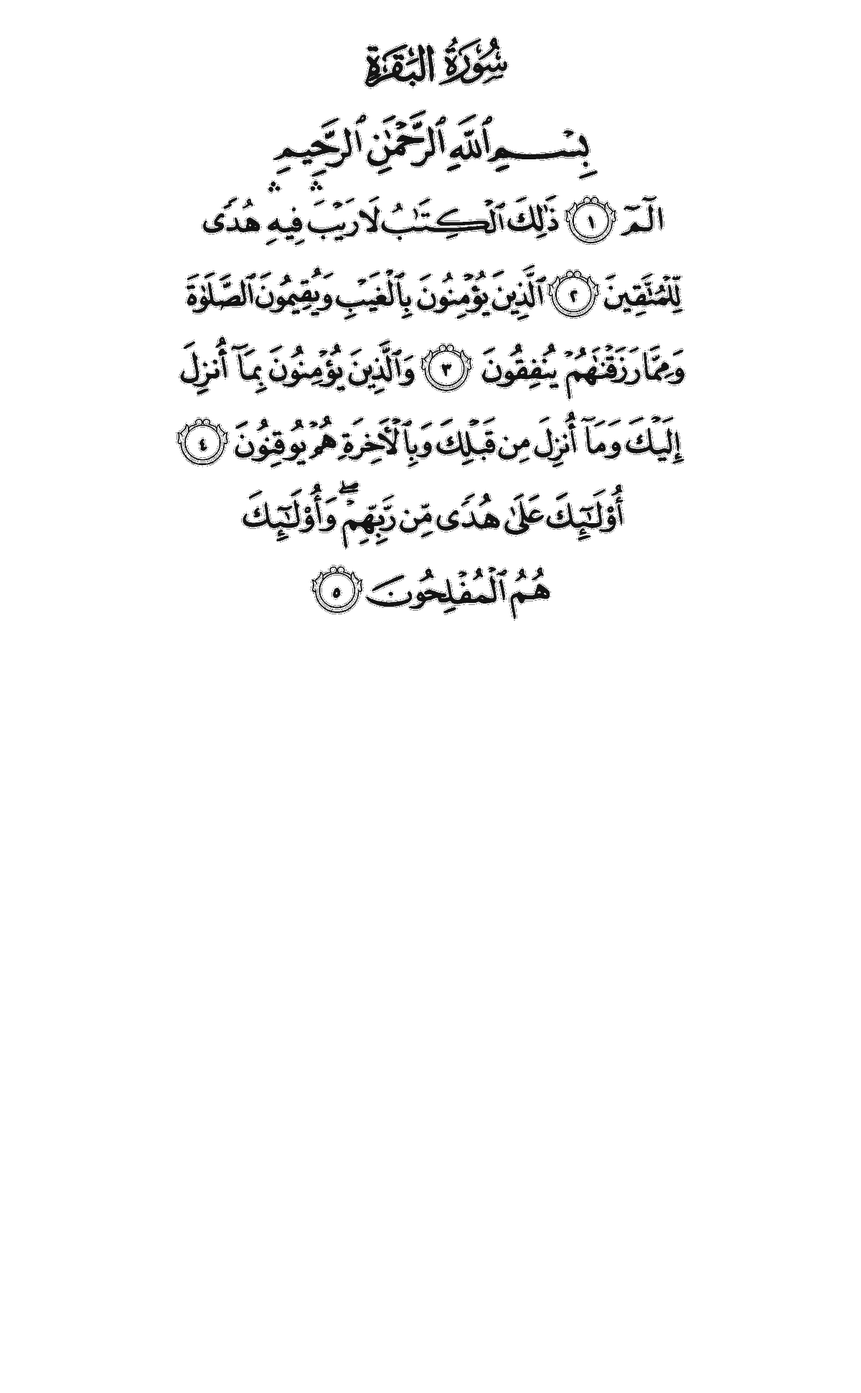
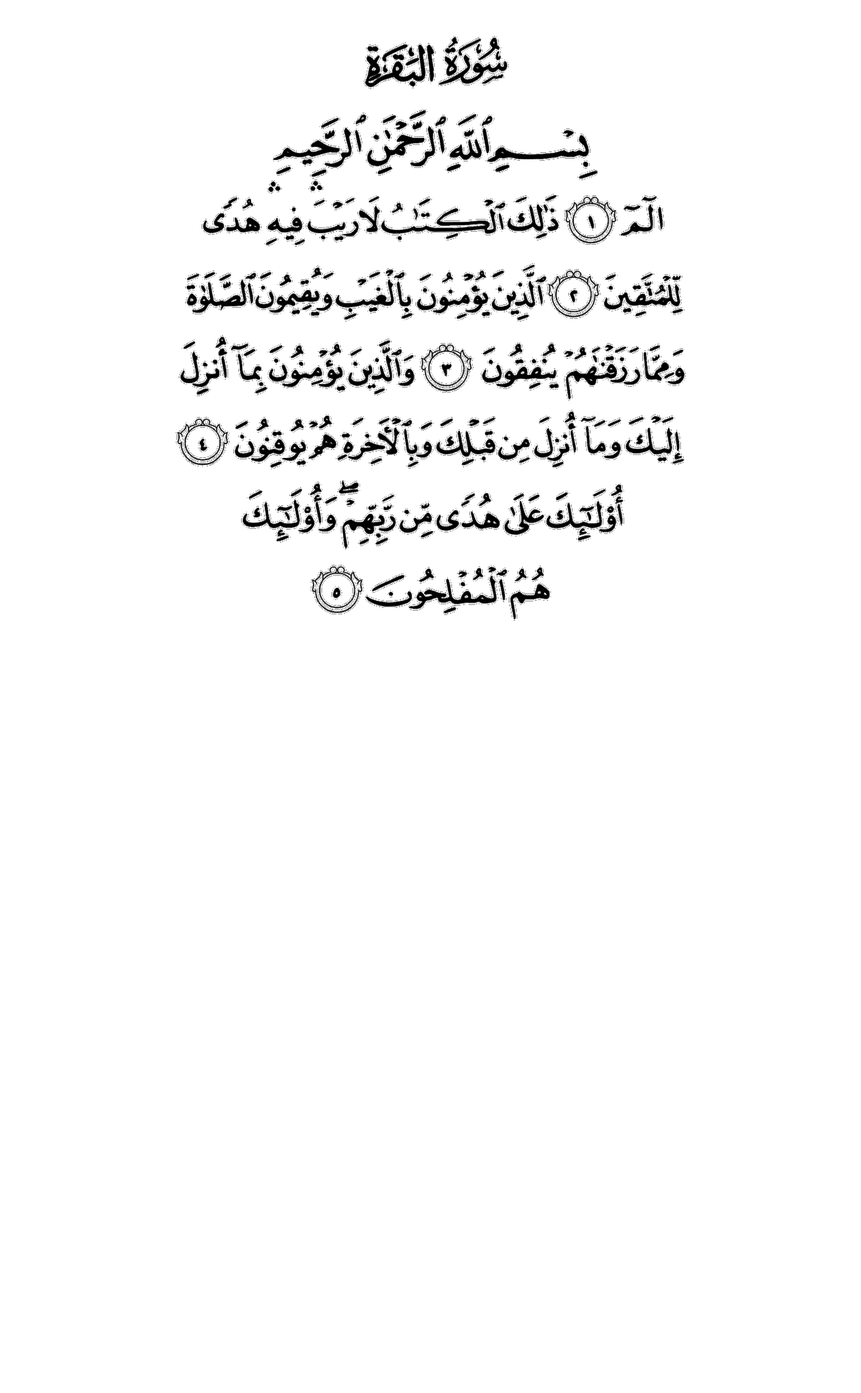
[full] V0.5.0-beta: Hybrid line architecture, Top-Third focus, and Basmalah fix

diff --git a/app/src/main/java/com/mushafqiyam/MushafPageRepository.kt b/app/src/main/java/com/mushafqiyam/MushafPageRepository.kt
@@ -47,6 +47,13 @@ object MushafPageRepository {
         val normBottom: Float
     )
 
+    data class PageLine(
+        val lineNumber: Int,
+        val normTop: Float,
+        val normBottom: Float,
+        val boxes: List<AyahBoundingBox>
+    )
+
     data class SurahInfo(
         val number: Int,
         val name: String,
@@ -60,6 +67,7 @@ object MushafPageRepository {
 
     private val pagesVerses = HashMap<Int, List<MushafVerse>>(604)
     private val pagesBoxes = HashMap<Int, List<AyahBoundingBox>>(604)
+    private val pagesLines = HashMap<Int, List<PageLine>>(604)
     private val allVersesList = ArrayList<MushafVerse>(6236)
     private val verseKeyToGlobalIndex = HashMap<Int, Int>(6236)
     private val surahInfoList = ArrayList<SurahInfo>(114)
@@ -190,9 +198,40 @@ object MushafPageRepository {
                 )
             }
             pagesBoxes[pageNum] = boxList
+
+            // Group boxes on this page into vertical line bands (standard 15 lines in Madani Mushaf)
+            val lineGroups = ArrayList<LineAccumulator>()
+            for (box in boxList) {
+                val midY = (box.normTop + box.normBottom) / 2f
+                val tolerance = 35f / REF_HEIGHT // ~0.018 in normalized coords
+                val existing = lineGroups.firstOrNull { kotlin.math.abs(it.midY - midY) < tolerance }
+                if (existing != null) {
+                    existing.boxes.add(box)
+                } else {
+                    val acc = LineAccumulator(midY)
+                    acc.boxes.add(box)
+                    lineGroups.add(acc)
+                }
+            }
+            lineGroups.sortBy { it.midY }
+            val pageLinesList = lineGroups.mapIndexed { idx, acc ->
+                val minTop = acc.boxes.minOf { it.normTop }
+                val maxBottom = acc.boxes.maxOf { it.normBottom }
+                PageLine(
+                    lineNumber = idx + 1,
+                    normTop = minTop,
+                    normBottom = maxBottom,
+                    boxes = acc.boxes.sortedByDescending { it.normRight } // RTL order on the line
+                )
+            }
+            pagesLines[pageNum] = pageLinesList
         }
 
-        AppLogger.i(TAG, "Loaded ${pagesVerses.size} pages, ${allVersesList.size} verses, and ${pagesBoxes.values.sumOf { it.size }} highlight boxes.")
+        AppLogger.i(TAG, "Loaded ${pagesVerses.size} pages, ${allVersesList.size} verses, ${pagesBoxes.values.sumOf { it.size }} highlight boxes, and ${pagesLines.values.sumOf { it.size }} lines.")
+    }
+
+    private class LineAccumulator(val midY: Float) {
+        val boxes = ArrayList<AyahBoundingBox>()
     }
 
     private fun extractBundledPagesIfNeeded(context: Context, onProgress: ((String) -> Unit)?) {
@@ -297,8 +336,29 @@ object MushafPageRepository {
         return pagesBoxes[pageNumber.coerceIn(1, 604)] ?: emptyList()
     }
 
+    fun getPageLines(pageNumber: Int): List<PageLine> {
+        return pagesLines[pageNumber.coerceIn(1, 604)] ?: emptyList()
+    }
+
     fun getAyahBoxesOnPage(pageNumber: Int, surah: Int, ayah: Int): List<AyahBoundingBox> {
         return getPageBoxes(pageNumber).filter { it.surah == surah && it.ayah == ayah }
+    }
+
+    /**
+     * Finds the lines that contain parts of the given Ayah on the given page.
+     * Returns a pair of: (Current matching Line, Next upcoming Line if any)
+     */
+    fun findAyahLinesOnPage(pageNumber: Int, surah: Int, ayah: Int): Pair<PageLine?, PageLine?> {
+        val lines = getPageLines(pageNumber)
+        val matchingIndices = lines.mapIndexedNotNull { idx, line ->
+            if (line.boxes.any { it.surah == surah && it.ayah == ayah }) idx else null
+        }
+        if (matchingIndices.isEmpty()) return Pair(null, null)
+
+        val firstLineIdx = matchingIndices.first()
+        val currentLine = lines[firstLineIdx]
+        val nextLine = lines.getOrNull(firstLineIdx + 1)
+        return Pair(currentLine, nextLine)
     }
 
     fun getSurahList(): List<SurahInfo> = surahInfoList

diff --git a/app/src/main/java/com/mushafqiyam/MushafPageViewer.kt b/app/src/main/java/com/mushafqiyam/MushafPageViewer.kt
@@ -61,11 +61,14 @@ fun MushafPageViewer(
 
             LaunchedEffect(currentPage, activeSurah, activeAyah) {
                 if (itemHeight > 0 && viewportHeight > 0) {
-                    val boxes = MushafPageRepository.getAyahBoxesOnPage(currentPage, activeSurah, activeAyah)
-                    if (boxes.isNotEmpty()) {
-                        val box = boxes.first()
-                        val yInPage = box.normTop * itemHeight
-                        val offset = (yInPage - (viewportHeight / 2)).toInt()
+                    val (currentLine, _) = MushafPageRepository.findAyahLinesOnPage(currentPage, activeSurah, activeAyah)
+                    val targetNormTop = currentLine?.normTop 
+                        ?: MushafPageRepository.getAyahBoxesOnPage(currentPage, activeSurah, activeAyah).firstOrNull()?.normTop
+                    if (targetNormTop != null) {
+                        val yInPage = targetNormTop * itemHeight
+                        // Top-Third Focus: place the active line at ~30% from the top of the viewport
+                        // This leaves ~70% below for the rest of the verse and upcoming verses.
+                        val offset = (yInPage - (viewportHeight * 0.30f)).toInt()
                         lazyListState.animateScrollToItem(currentPage - 1, offset)
                     }
                 }
@@ -203,12 +206,26 @@ private fun MushafSinglePageCanvas(
         isLoading = false
     }
 
-    val activeBoxes = remember(pageNumber, activeSurah, activeAyah, MushafPageRepository.isInitialized) {
+    val (currentLine, nextLine) = remember(pageNumber, activeSurah, activeAyah, MushafPageRepository.isInitialized) {
         if (MushafPageRepository.isInitialized) {
+            MushafPageRepository.findAyahLinesOnPage(pageNumber, activeSurah, activeAyah)
+        } else {
+            Pair(null, null)
+        }
+    }
+
+    val activeBoxes = remember(currentLine, pageNumber, activeSurah, activeAyah, MushafPageRepository.isInitialized) {
+        if (currentLine != null) {
+            currentLine.boxes
+        } else if (MushafPageRepository.isInitialized) {
             MushafPageRepository.getAyahBoxesOnPage(pageNumber, activeSurah, activeAyah)
         } else {
             emptyList()
         }
+    }
+
+    val lookaheadBoxes = remember(nextLine) {
+        nextLine?.boxes ?: emptyList()
     }
 
     var tapCount by remember { mutableIntStateOf(0) }
@@ -268,6 +285,22 @@ private fun MushafSinglePageCanvas(
                     val cornerRadius = CornerRadius(6.dp.toPx(), 6.dp.toPx())
                     val strokeWidth = 1.5.dp.toPx()
 
+                    // 1. Draw lookahead upcoming line with a subtle, soft translucent tint (~15% opacity)
+                    for (box in lookaheadBoxes) {
+                        val left = box.normLeft * w
+                        val top = box.normTop * h
+                        val boxW = (box.normRight - box.normLeft) * w
+                        val boxH = (box.normBottom - box.normTop) * h
+
+                        drawRoundRect(
+                            color = Color(0x184CAF50), // Subtle preview tint
+                            topLeft = Offset(left, top),
+                            size = Size(boxW, boxH),
+                            cornerRadius = cornerRadius
+                        )
+                    }
+
+                    // 2. Draw active currently recited line with clear highlight
                     for (box in activeBoxes) {
                         val left = box.normLeft * w
                         val top = box.normTop * h

diff --git a/app/src/main/java/com/mushafqiyam/QuranVocabularyFilter.kt b/app/src/main/java/com/mushafqiyam/QuranVocabularyFilter.kt
@@ -757,8 +757,15 @@ object QuranVocabularyFilter {
             }
         }
 
+        // Distinctive Fatihah words that DO NOT exist in the Basmalah ("بسم الله الرحمن الرحيم")
+        val FATIHAH_EXCLUSIVE_SKELETONS = setOf(
+            "الحمد", "العلمين", "ملك", "الدين", "اياك", "نعبد", "نستعين"
+        )
+
         // Require at least 2 ordered words of Al-Fatihah (1:2..1:5) with consecutive proximity
-        if (matched.size >= 2 && (matched.last().globalIndex - matched.first().globalIndex) <= 4) {
+        // AND at least one exclusive Fatihah word to avoid false jumps on Basmalah between Surahs ("الرحمن الرحيم")
+        val hasExclusiveFatihahWord = matched.any { FATIHAH_EXCLUSIVE_SKELETONS.contains(it.skeletonText) }
+        if (matched.size >= 2 && (matched.last().globalIndex - matched.first().globalIndex) <= 4 && hasExclusiveFatihahWord) {
             val targetVIdx = matched.last().verseIndex
             confirmedVerseIndex = targetVIdx
             activeWordPointer = minOf(allWords.size - 1, matched.last().globalIndex + 1)

diff --git a/app/src/main/java/com/mushafqiyam/MainActivity.kt b/app/src/main/java/com/mushafqiyam/MainActivity.kt
@@ -54,7 +54,7 @@ class MainActivity : ComponentActivity() {
 
     companion object {
         private const val TAG = "MushafQiyam"
-        const val APP_VERSION = "5.9.1"
+        const val APP_VERSION = "0.5.0-beta"
     }
 
     private var audioRecognizer: AudioRecognizer? = null

diff --git a/ARCHITECTURE.md b/ARCHITECTURE.md
@@ -1,0 +1,106 @@
+# الدليل التقني والمعماري الشامل — مشروع مصحف القيام (Mushaf Qiyam)
+
+> **وثيقة معمارية وهندسية** تسجل خلاصة التجارب، القرارات المعمارية، وتفاصيل البنية البرمجية لمساعدة المطورين والباحثين الراغبين في بناء تطبيقات التعرف الصوتي على التلاوة القرآنية على الأجهزة المحمولة.
+
+---
+
+## 1. فكرة المشروع والهدف الأساسي
+الهدف من تطبيق **مصحف القيام** هو تمكين الإمام أو المصلي المنفرد في صلوات القيام والتهجد والتراويح من قراءة القرآن الكريم من شاشة هاتف أو جهاز لوحي (تابلت)، مع **تقليب الصفحات أو تمريرها آلياً** بمتابعة صوته وتلاوته لحظياً، **دون الحاجة للمس الشاشة أو الاتصال بالإنترنت**.
+
+---
+
+## 2. المراحل والتطور التاريخي للمعمارية (Architecture Evolution)
+
+مر المشروع بعدة محطات تجريبية للوصول إلى التوازن بين دقة التتبع واستهلاك موارد الجهاز:
+
+1. **المرحلة الأولى (React Native & Whisper):**
+   - استخدام نموذج Whisper (Tiny / Base) محلياً.
+   - **النتيجة:** ارتفاع زمن الاستجابة (Latency > 1.5s)، وزيادة استهلاك البطارية والحرارة على الهواتف، مع صعوبة التوفيق بين هلوسات النماذج العامة والنص القرآني الدقيق.
+2. **المرحلة الثانية (الانتقال إلى Kotlin Native & Sherpa-ONNX):**
+   - بناء التطبيق بنظام Android Native (Jetpack Compose).
+   - استخدام مكتبة `sherpa-onnx` ونماذج Zipformer / Conformer.
+3. **المرحلة الثالثة (المسار أ: Pure Native ONNX Runtime & FastConformer):**
+   - الاستغناء عن الأغلفة الوسيطة واستخدام `com.microsoft.onnxruntime:onnxruntime-android` مباشرة.
+   - استخدام نموذج **FastConformer Transducer** المدرب على القرآن الكريم.
+   - استخراج ميزات Mel Filterbank بـ 80 بُعداً بلغة Kotlin الصافية مع خوارزميات FFT صفرية التخصيص في الذاكرة (Zero-Allocation FFT).
+   - تحقيق زمن استجابة فائق (Inference Time < 60ms) مع استهلاك ذاكرة RAM ضئيل (< 40MB Heap, ~550MB Native).
+
+---
+
+## 3. محرك التتبع اللغوي وقواعد الاستقرار الصوتي (Resilience Engine)
+
+أكبر تحديات التعرف الصوتي على القرآن في الصلاة الحية هي: تشوهات الميكروفون، تكرار الآيات، وتداخل البسملة. تم حل هذه المشاكل عبر:
+
+### أ. الفصل بين وضعين للتلاوة (Recitation Modes)
+1. **وضع التتبع المتسلسل (`TRACKING Mode`):**
+   - يركز على نافذة سياق محلية أمام مؤشر القراءة الحالي (Lookahead Window = 20 كلمة).
+   - يشترط التعرف على كلمتين متتاليتين بالترتيب لتأكيد الانتقال للآية التالية (Monotonic Chain Rule).
+2. **وضع الاكتشاف الشامل (`DISCOVERY Mode`):**
+   - يعمل بفهرس عكسي للهياكل الصامتة للكلمات (Skeleton Inverted Index) يغطي كافة كلمات القرآن (77,430 كلمة عبر 6,236 آية).
+   - سرعة بحث فائقة (< 2ms) عبر الكلمات النادرة (IDF weighting) لاسترداد موضع القارئ في أي موضع من المصحف.
+
+### ب. حل معضلة البسملة والركعات الجديدة (Bismillah Isolation)
+- نظراً لأن سورة الفاتحة تبدأ بالبسملة كآية أولى مسجلة (1:1)، كان نطق البسملة بين السور يؤدي إلى ارتداد التطبيق للصفحة 1.
+- **الحل المعتمد:**
+  1. في وضع الاكتشاف: منع القفل المباشر على الآية (1:1) كفرد منفرد والانتظار للكلمات التي تليها.
+  2. في وضع التتبع: اشتراط وجود كلمة حصرية وخاصة بالفاتحة (مثل: «الحمد»، «العالمين»، «مالك»، «إياك») لمنع اعتبار «الرحمن الرحيم» دليلاً على بدء الفاتحة.
+
+### ج. الدمج المنطقي (Logical Verse Merging)
+- **الدمج للأمام (Forward Merge):** للآيات المكونة من كلمة واحدة (مثل: الحروف المقطعة «الم»، «حم»، أو «والفجر»)، حيث تُدمج برمجياً مع الآية التالية لضمان توفر سياق كافٍ للمطابقة.
+- **الدمج للخلف (Backward Merge):** للآيات شديدة التكرار (مثل: «فبأي آلاء ربكما تكذبان»)، حيث تُدمج كخاتمة للآية التي تسبقها منعاً لارتداد المؤشر للخلف.
+
+---
+
+## 4. المعمارية الهجينة لواجهة المستخدم (Hybrid Presentation Layer)
+
+لتوفير راحة بصرية للمصلي توازي استقرار التتبع الصوتي:
+1. **الفصل بين المنطق والعرض:**
+   - المحرك الصوتي يعمل بوحدة **الكلمات والآيات** (حفاظاً على السياق اللغوي).
+   - الواجهة الرسومية تعرض وتظلل بوحدة **الأسطر** (Line-based Presentation).
+2. **التمركز في الثلث العلوي (Top-Third Focus):**
+   - نقل مركز ثقل الشاشة ليكون عند 30% من الحافة العلوية، مما يضمن ظهور ثلثي الشاشة مكشوفاً لعرض بقية الآية ومطلع الآية القادمة (Lookahead Visibility).
+3. **التظليل السطري المزدوج المتدرج:**
+   - تظليل السطر المقروء حالياً بلون زمردي واضح (`#384CAF50`).
+   - تظليل السطر التالي مباشرة بشفافية خافتة (`#184CAF50`) لتمهيد نظر القارئ للسطر التالي بانسيابية.
+4. **دعم الوضعين:**
+   - وضع الصفحات المتقطعة (Paged Mode عبر `HorizontalPager`).
+   - وضع التمرير المتصل (Continuous Scroll Mode عبر `LazyColumn`).
+
+---
+
+## 5. هيكل المشروع التقني (Repository Structure)
+
+```text
+├── app/src/main/java/com/mushafqiyam/
+│   ├── MainActivity.kt           # نقطة الدخول، شريط التحكم، ربط المستشعرات وإدارة الصلاحيات
+│   ├── AudioRecognizer.kt       # تسجيل الصوت، إنتاج Mel Fbank، وتشغيل نموذج ONNX Transducer
+│   ├── FastConformerFbank.kt    # حساب Spectrogram و Mel Filters بصفر استهلاك ذاكرة
+│   ├── QuranVocabularyFilter.kt # محرك التتبع، الفهرس العكسي، ذكاء الفاتحة والدمج المنطقي
+│   ├── MushafPageViewer.kt       # واجهة عرض المصحف، التظليل السطري المزدوج، والتمرير التلقائي
+│   └── MushafPageRepository.kt   # إدارة بيانات 604 صفحة، إحداثيات الأسطر، وتحميل الصور
+├── app/src/main/assets/
+│   ├── quran-pages.json          # نصوص الآيات المقسمة حسب الصفحات
+│   └── ayah-boxes.json           # 13,766 إحداثي مستطيل للآيات والأسطر
+├── scripts/
+│   └── fix_encoder_conv.py       # سكربت بايثون لتحويل عقد ConvInteger إلى Conv لدعم معالجات ARM64
+└── .github/workflows/
+    └── android-build.yml         # خط أنابيب CI/CD التلقائي للبناء والتوقيع وإطلاق الإصدارات
+```
+
+---
+
+## 6. إرشادات للمطورين الراغبين في المساهمة أو البناء
+
+1. **متطلبات البناء المحلي:**
+   - Android Studio Iguana / Jellyfish أو أحدث.
+   - JDK 17.
+   - NDK 26+ (في حال استخدام مكتبات C++ الأصلية).
+2. **بناء النسخة الكاملة vs النسخة الخفيفة:**
+   - **النسخة الكاملة (`[full]`):** تتضمن تنزيل نماذج ONNX الكبيرة (~130MB) واستخراج صور الـ 604 صفحات داخل ملف الـ APK.
+   - **النسخة الخفيفة (`[lite]`):** تبني APK فائق الصغر (~15MB) يعتمد على النماذج والصور المثبتة مسبقاً على جهاز المستخدم.
+3. **قواعد المساهمة:**
+   - الالتزام بنظام الترقيم الدلالي `0.x.y-beta`.
+   - عدم إجراء تعديلات عشوائية على قواعد التتبع دون مراجعة أثرها على الفهرس العكسي للقرآن كاملاً.
+
+---
+*(تم إعداد هذه الوثيقة لتوثيق خلاصة المرحلة الأولى - المسار أ)*

diff --git a/ROADMAP.md b/ROADMAP.md
@@ -1,0 +1,29 @@
+# خريطة الطريق (Roadmap) - مصحف القيام
+
+## الخطوات القادمة المعتمدة:
+1. **تجربة واختبار النسخة الحالية:** اختبار النسخة الخفيفة (`V5.9.1 [lite]`) للتحقق من استقرار الشريط الجانبي الأيسر في الوضع الأفقي وتجاوز قفزة البسملة.
+
+2. **إصدار نسخة كاملة نهائية للمسار (أ):** 
+   - **استبدال صورتي الفاتحة وأول البقرة (Replace Pages 1 & 2 Images):** استبدال الملفين `001.png` و `002.png` بالنسختين عاليتي الجودة الموجودتين في مجلد `assets/mushaf - Original size/` بدلاً من النسختين المنخفضتي الدقة في `assets/mushaf - small/`.
+   - **إصلاح قفزة البسملة الجذرية (Fix Fatihah Detection in TRACKING Mode):** 
+     - تعديل دالة كشف الركعة الجديدة `detectAlFatihahStart` لاستبعاد كلمتي «الرحمن» و«الرحيم» المشتركتين مع البسملة من شروط الانتقال.
+     - اشتراط رصد كلمة مميزة حصرية للفاتحة (مثل: «الحمد»، «العالمين»، «مالك»، «الدين»، «إياك»، «نستعين») قبل القفز إلى سورة الفاتحة.
+   - **الاعتماد المعماري الهجين (Hybrid Architecture):** 
+     - الإبقاء على محرك التتبع الصوتي معتمداً على الآيات والكلمات للحفاظ على دقة التعرف والاسترداد.
+     - تحويل طبقة العرض والواجهة للاعتماد على شبكة الأسطر (Line-based presentation).
+   - **تطويرات واجهة المستخدم المعتمدة للتنفيذ:**
+     - **نقطة التركيز في الثلث العلوي (Top-Third Focus):** رفع نقطة الارتكاز إلى 30% من أعلى الشاشة لضمان ظهور بقية الآية الحالية ومطلع الآية التالية دوماً.
+     - **الانزلاق التدريجي للآيات (Progressive Line Scrolling):** ربط موضع التمرير الرأسي برقم السطر الفعلي الذي تقع فيه الكلمة المنطوقة، مما يجعل الحركة خطية وناعمة سطرًا بسطر.
+     - **التظليل السطري الاستباقي (Line-by-Line Highlight with Lookahead Fade):** تظليل السطر المقروء حالياً بلون واضح، مع تظليل السطر الذي يليه مباشرة بشفافية خافتة للتمهيد البصري.
+   - **البناء والنشر:** إصدار نسخة `[full]` نهائية ومستقرة لمسار التتبع النصي (FastConformer) مدمجة بالكامل مع النماذج والصور عالية الجودة.
+
+3. **تفريعة جديدة للمسار (ب):** 
+   - إنشاء تفريعة منفصلة (`branch: path-b-zipformer`) في مستودع GitHub.
+   - البدء في دمج نموذج `Zipformer2 Phonemes` والانتقال لمرحلة التعرف على أصوات التجويد وتصحيح التلاوة.
+
+---
+
+## 💡 أفكار واقتراحات مؤجلة للمناقشة لاحقاً:
+- **وضع النص العثماني المكتوب (Text-based Mushaf):** الاعتماد على خط الرسم العثماني لمجمع الملك فهد والنصوص الموثقة (Unicode) كبديل لصور الصفحات للهواتف الذكية.
+- **سؤال البناء المستقبلي:** هل يُدمج وضع النص العثماني كوضع إضافي داخل نفس التطبيق، أم تُطلق نسخة مخصصة للهواتف منفصلة عن نسخة التابلت؟
+- **إعادة تقييم الوضع الأفقي:** حسم جدوى استمرار الوضع الأفقي للهواتف في ضوء تجارب القراءة الفعلية.

diff --git a/.agents/AGENTS.md b/.agents/AGENTS.md
@@ -17,3 +17,8 @@
 2. التأكد من منطقيتها وقابليتها للتنفيذ الفعلي (Feasibility) في ضوء الإمكانيات المتاحة للبيئة المستهدفة (مثال: موارد التابلت أو الهاتف، سعة الذاكرة RAM، توافر الإنترنت، قدرات المعالج).
 3. استخدام منهجية الأمر `/teamwork-preview` لإنشاء مسودة متطلبات واضحة ومقاييس قبول (Acceptance Criteria) موضوعية تكشف أي ثغرات أو تناقضات في الخطة قبل كتابة سطر كود واحد.
 4. عدم الشروع في التنفيذ إلا بعد الحصول على موافقة صريحة من المستخدم على هذا التحليل النقدي.
+
+## Communication Style (نمط التواصل)
+- **Objectivity & Professionalism:** Be strictly objective and professional. Do not use exaggerated praise, flattery, or excessive compliments (e.g., avoid words like عبقري, مبهر, رائع).
+- **Critical Thinking:** Prioritize identifying flaws, edge cases, and architectural mistakes in the user's suggestions over blindly agreeing or expressing admiration.
+- **Directness:** Keep responses concise, direct, and focused purely on engineering facts and actionable steps. No unnecessary emojis.

diff --git a/README.md b/README.md
@@ -24,3 +24,6 @@
   [Quran.com GitHub](https://github.com/quran)
 * **محرك التشغيل (ONNX Runtime):** مكتبة التشغيل مفتوحة المصدر من Microsoft 
   [ONNX Runtime](https://onnxruntime.ai/)
+
+## 📖 التوثيق المعماري للمطورين
+للاطلاع على تفاصيل المعمارية الهندسية، خوارزميات محرك التتبع الصوتي، والتجارب السابقة للمشروع، يرجى مراجعة [الدليل المعماري الشامل (ARCHITECTURE.md)](ARCHITECTURE.md).
